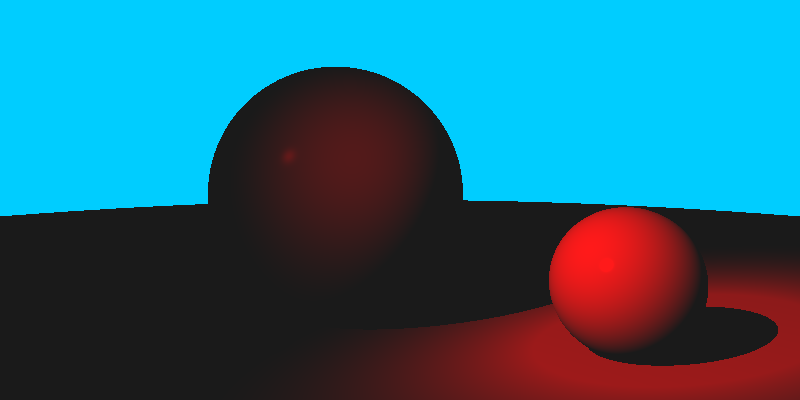
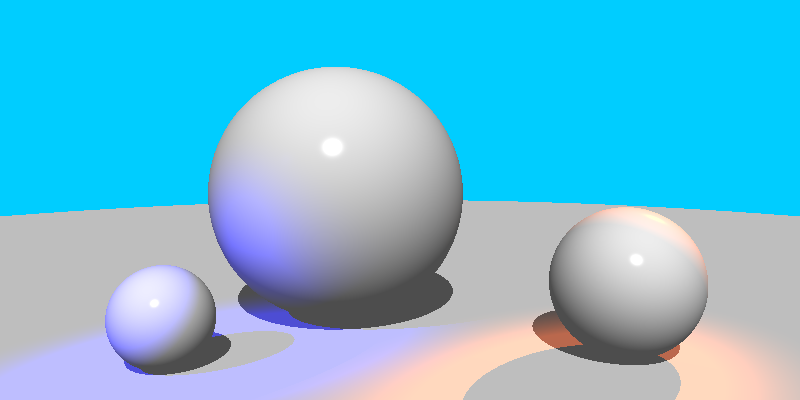
Lab9_2 Update last task from Lab9 (task09_14.png)

diff --git a/src/main/kotlin/task09.kt b/src/main/kotlin/task09.kt
@@ -71,23 +71,23 @@ fun main() {
     // settings for task09_14
     width = 800
     scene.clearLights()
-    // scene.addLight(DirectionalLightSource(Vector(0, -10, 10), intensity = 0.7))
-    // scene.addLight(SpotLightSource(
-    //             Point(-10, 10, -10),
-    //             Point(-1.5, 0.33, -0.75) - Point(-10, 10, -10),
-    //             Point(-5, 5, -5),
-    //             Point(-1.5, 0.33, -0.75) - Point(-5, 5, -5),
-    //             // Vector(10, -10, 10),
-    //             30.0,
-    //             10.0,
-    //             Color.BLUE))
+    scene.addLight(DirectionalLightSource(Vector(0, -10, 10), intensity = 0.7))
     scene.addLight(SpotLightSource(
-        Point(-10, 10, -10),
-        Point(1.5, 0.5, -0.5) - Point(-10, 10, -10),
+                Point(-10, 10, -10),
+                Point(-1.5, 0.33, -0.75) - Point(-10, 10, -10),
+                // Point(-5, 5, -5),
+                // Point(-1.5, 0.33, -0.75) - Point(-5, 5, -5),
+                // Vector(10, -10, 10),
+                10.0,
+                5.0,
+                Color.BLUE))
+    scene.addLight(SpotLightSource(
+        Point(10, 10, 10),
+        Point(1.5, 0.5, -0.5) - Point(10, 10, 10),
         // Vector(10, -10, 10),
-        15.0,
+        10.0,
         5.0,
-        Color.RED))
+        Color.ORANGE))
     saveSceneCanvasFromCamera("task09_14", scene, width, height, fov, position, lookAt, up)
 
 }

diff --git a/src/main/kotlin/Scene.kt b/src/main/kotlin/Scene.kt
@@ -65,7 +65,6 @@ class Scene {
         val adjusted = hitInfo.point + hitInfo.normalV * epsilon
         var finalColor = Color.BLACK
         for (light in lights) {
-            // val light = this.getLights().firstOrNull() ?: PointLightSource(Point(-10, 10, -10), Color(1, 1, 1))
             val inShadow = isShadowed(adjusted, light)
             finalColor += hitInfo.shape.material.phongLighting(light, hitInfo.point, hitInfo.eyeV, hitInfo.normalV, inShadow)
         }

diff --git a/src/main/kotlin/Tuple.kt b/src/main/kotlin/Tuple.kt
@@ -182,6 +182,7 @@ data class Color(val red:Double, val green:Double, val blue:Double) {
         val GREEN = Color(0.0, 1.0, 0.0)
         val BLUE = Color(0.0, 0.0, 1.0)
         val WHITE = Color(1.0, 1.0, 1.0)
+        val ORANGE = RED * 0.8 + GREEN * 0.2
 
         // Создаём Color со случайными значениями
         fun randomColor(): Color {
